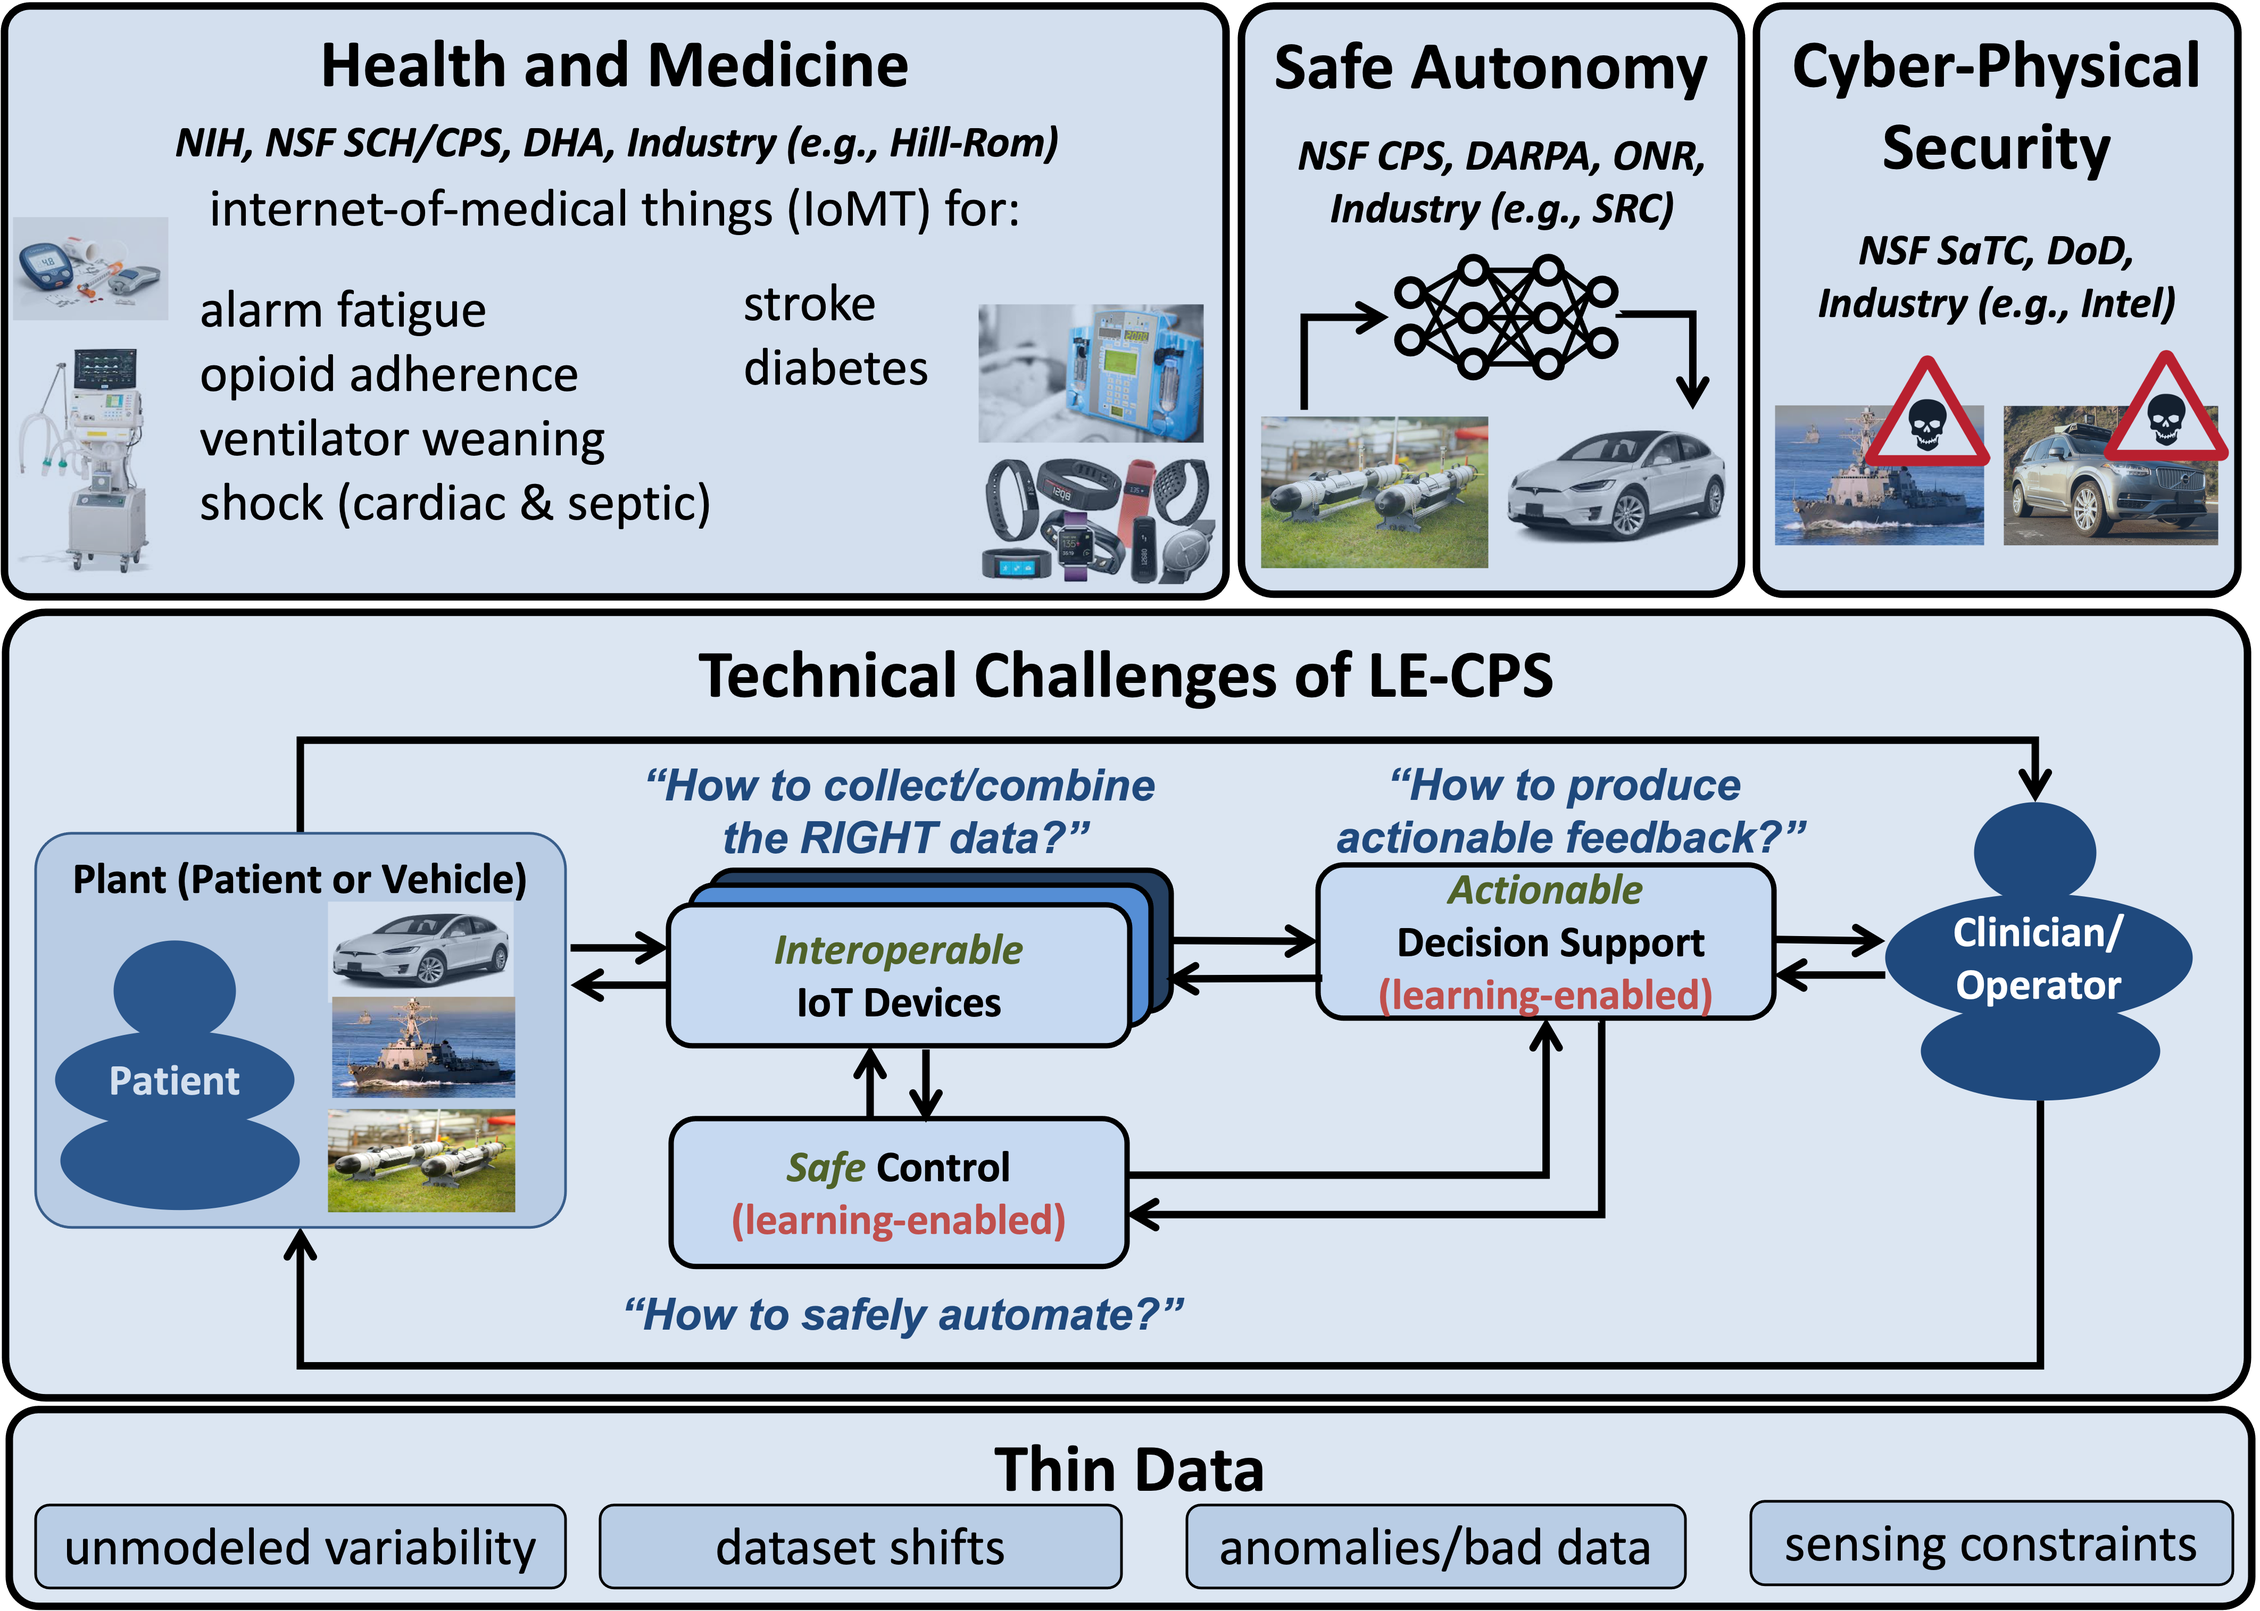
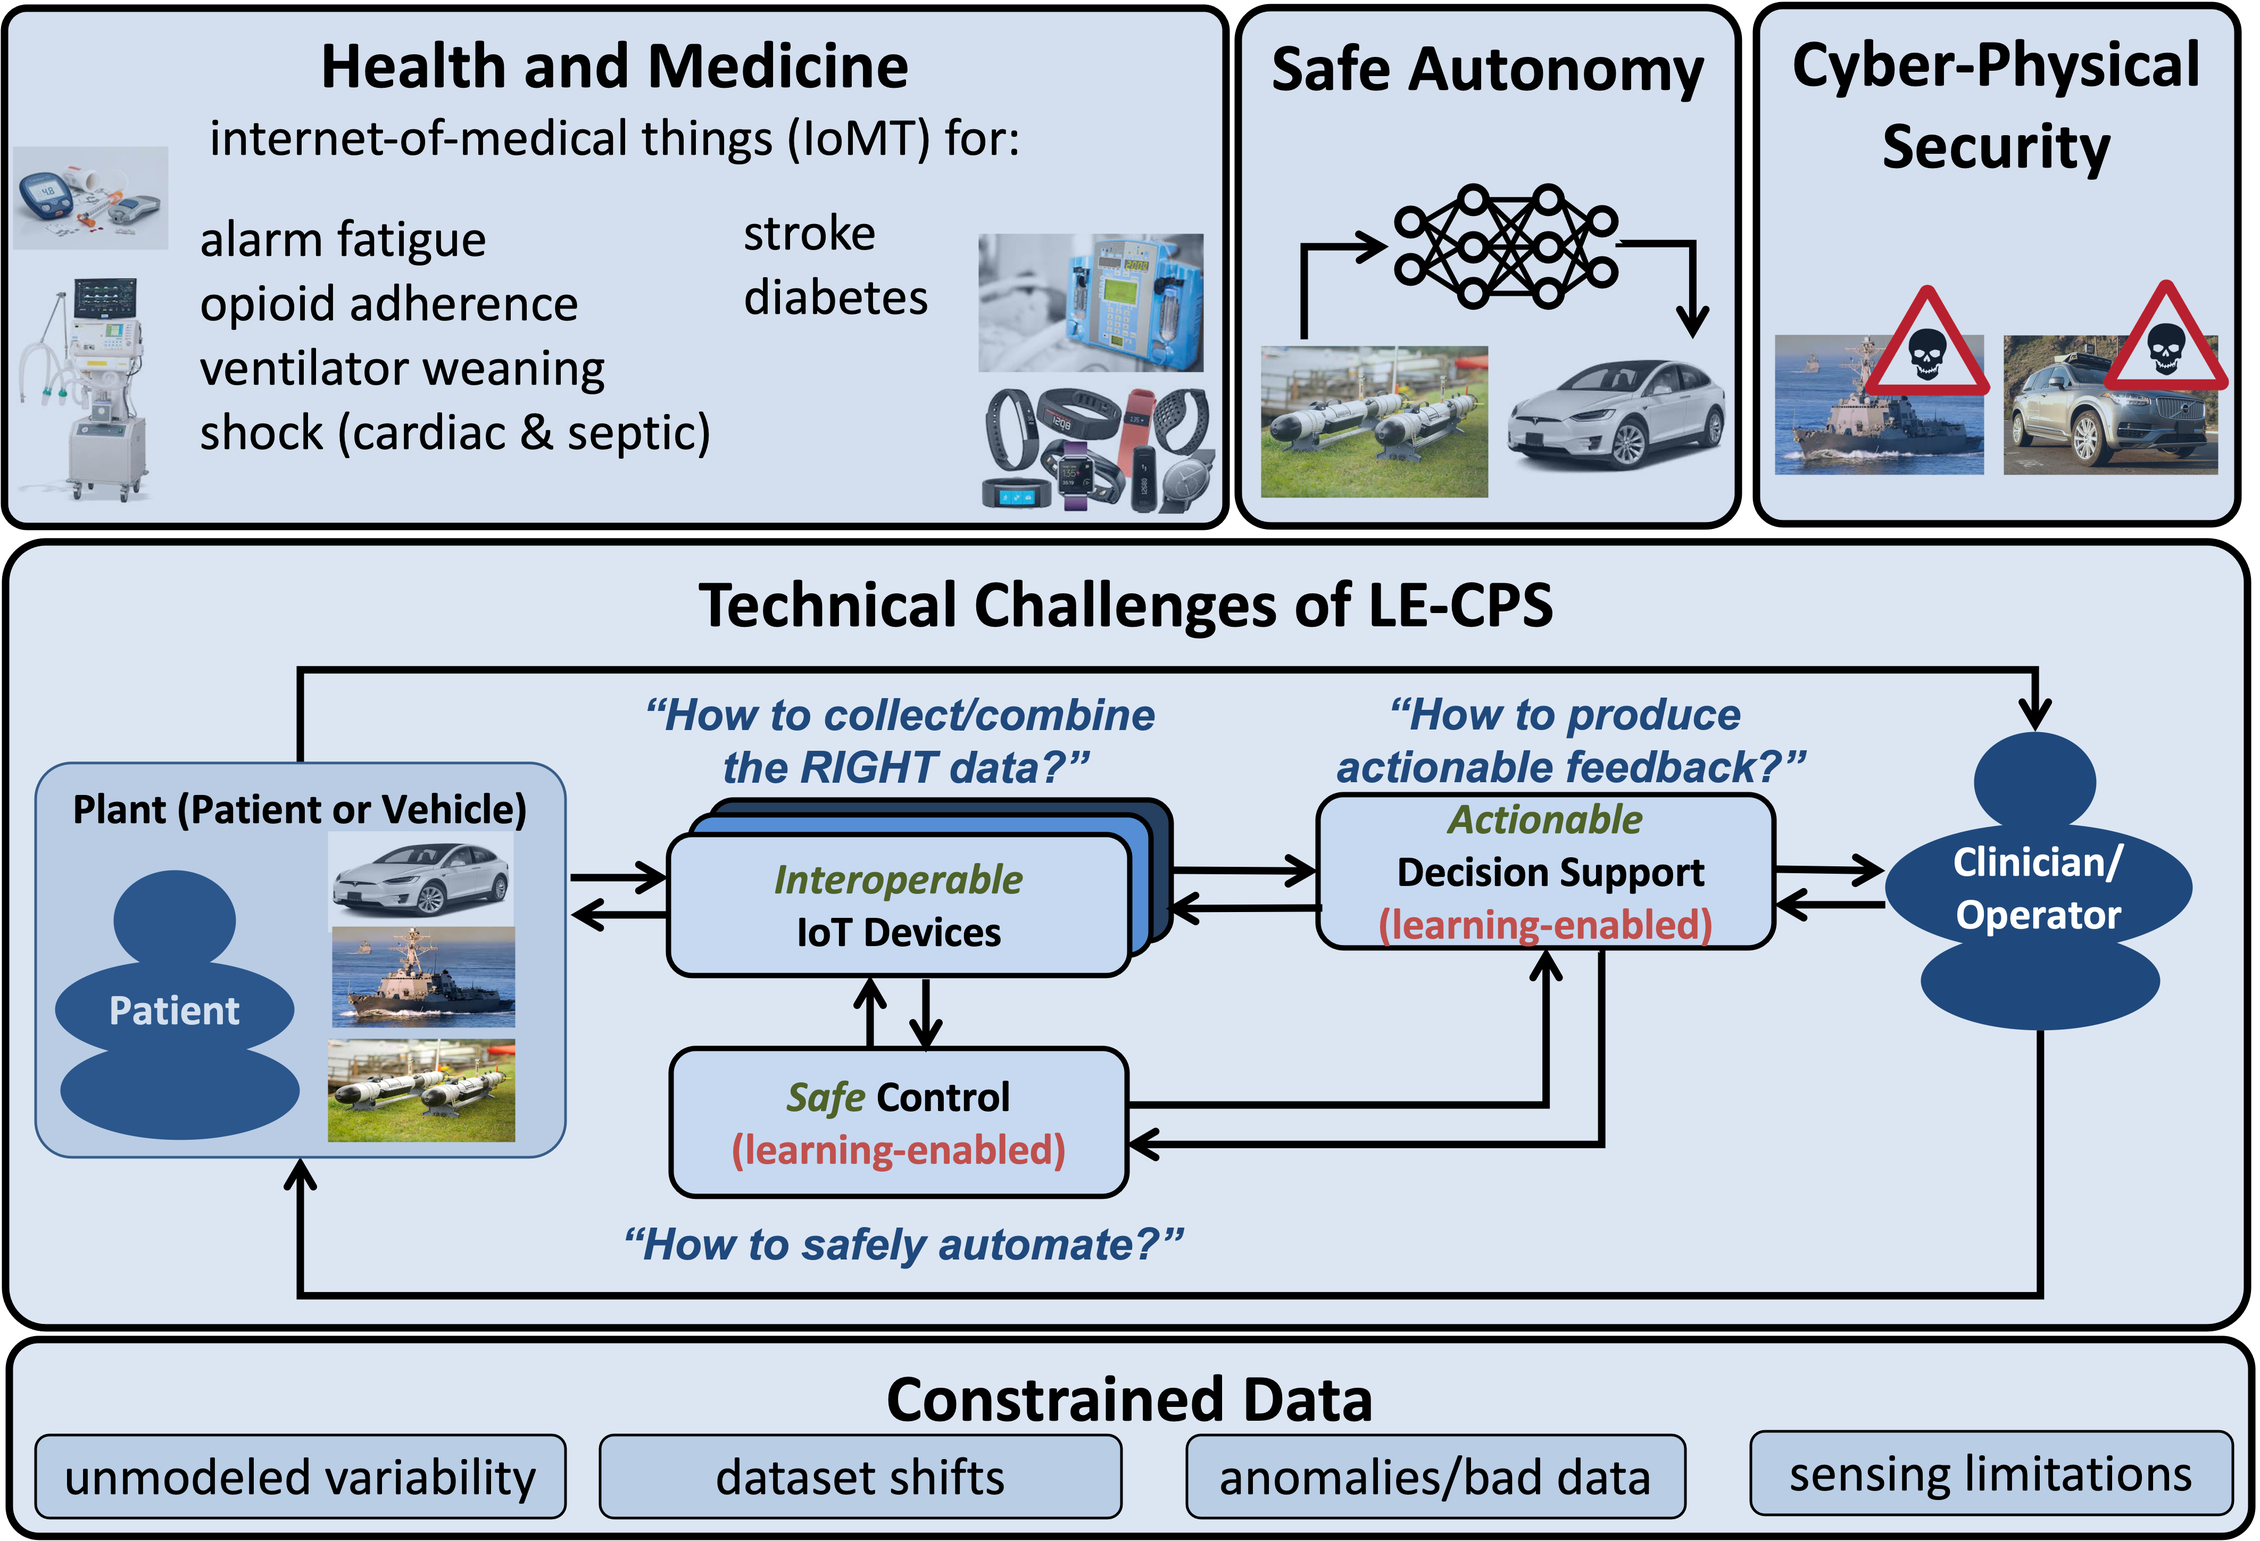
research update

Changed region(s): [[0.0, 0.0, 1.0, 1.0]]

diff --git a/_pages/research.md b/_pages/research.md
@@ -5,8 +5,8 @@ permalink: /research/
 
 ## Learning-Enabled Cyber-Physical Systems
 
-My research aims to develop techniques and tools for the design and analysis of learning-enabled cyber-physical
-systems (LE-CPS) with thin data primarily targeting applications in the internet-of-medical-things (IoMT)
+My research aims to develop techniques and tools for the design and analysis of data-constrained learning-enabled cyber-physical
+systems (LE-CPS) primarily targeting applications in the internet-of-medical-things (IoMT)
 and autonomous vehicles (AVs). These systems present a unique combination of challenges stemming from the
 intersection of data science, embedded systems, and cyber-physical security in healthcare and autonomy
 applications -- challenges that are not well handled by existing robust engineering paradigms. To address these
@@ -29,27 +29,28 @@ Second, assuring safety necessitates the ability to provide actionable feedback 
 situations where confidence in learning degrades. Third, closing-the-loop with learning-enabled components presents
 challenges for safety and security assurance. 
 
-### What is "thin data"?
+### What are data constraints?
 
-While empirical data is often a significant source of this background knowledge in LE-CPS, it can also be limited,
-sparse, or "thin" due to unmodeled variability, dataset shifts, anomalies, and sensing constraints. Consequently,
-providing safety guarantees and predictable performance in learning-enabled CPS with thin data is challenging. My
-research addresses the challenges of thin data by incorporating additional sources of background knowledge including
+While empirical data is often a significant source of background knowledge in LE-CPS, its utility can also be constrained by 
+unmodeled variability, dataset shifts, anomalies, and sensing limitations. Consequently,
+providing safety guarantees and predictable performance in learning-enabled CPS with data limitations is challenging. My
+research addresses the challenges of constrained data by incorporating additional sources of background knowledge including
 physical/physiological models and contextual information. In healthcare, my work utilizes new sensing modalities
-as well as physiological and contextual information to overcome thin data challenges stemming from inter/intra-patient
+as well as physiological and contextual information to overcome data challenges stemming from inter/intra-patient
 variability, constrained sensing and actuation capabilities, limited and protected patient populations, and uncertain
-models of multi-system physiology. Similarly in autonomy, my research utilizes physical models to enable operation in
+models of multi-system physiology. In autonomy, my research utilizes physical models to enable operation in
 time-varying, uncertain, unstructured, and adversarial environments.
 
 
 ### Current Projects
-- [Momitor: Wearable Technology for Early Detection of Postpartum Hemorrhage (NIH STTR)](https://reporter.nih.gov/search/y7_IQE9dSECym8C5PO0xzg/project-details/10483278)
 - [SCC-IRG JST: Active sensing and personalized interventions for pandemic-induced social isolation (NSF SCC)](https://www.nsf.gov/awardsearch/showAward?AWD_ID=2125561&HistoricalAwards=false)
 - [Robust Concept Learning and Lifelong adaptation against adversarial attacks (ARO MURI)](https://aro-muri2020.seas.upenn.edu/index.html)
-- [Monitoring safety and adherence of pain management through remote opioid sensing and analysis (NIH R01)](https://projectreporter.nih.gov/project_info_description.cfm?aid=9936691&icde=47034448)
-- [Smart Alarms 2.0: Foundations for Caregiver-in-the-loop Suppression of Non-Informative Alarms (NSF SCH)](https://www.nsf.gov/awardsearch/showAward?AWD_ID=1915398&HistoricalAwards=false)
+
 
 ### Past Projects
+- [Momitor: Wearable Technology for Early Detection of Postpartum Hemorrhage (NIH STTR)](https://reporter.nih.gov/search/y7_IQE9dSECym8C5PO0xzg/project-details/10483278)
+- [Monitoring safety and adherence of pain management through remote opioid sensing and analysis (NIH R01)](https://projectreporter.nih.gov/project_info_description.cfm?aid=9936691&icde=47034448)
+- [Smart Alarms 2.0: Foundations for Caregiver-in-the-loop Suppression of Non-Informative Alarms (NSF SCH)](https://www.nsf.gov/awardsearch/showAward?AWD_ID=1915398&HistoricalAwards=false)
 - [AutoWean: Foundations of Autonomous Medical CPS for Mechanical Ventilation Weaning (NIH RO1)](https://projectreporter.nih.gov/project_info_description.cfm?aid=9985370&icde=47046182&ddparam=&ddvalue=&ddsub=&cr=1&csb=default&cs=ASC&pball=)
 - [Pediatric Patient Safety Learning Laboratory to Re-Engineer Continuous Physiologic Monitoring Systems (NIH R18)](https://projectreporter.nih.gov/project_info_description.cfm?aid=9778806&icde=47047062)
 - [Integrated Static and Dynamic Approaches to High-Assurance for Learning-Enabled Cyber-Physical Systems (DARPA Assured Autonomy)](https://rtg.cis.upenn.edu/assured-autonomy/)
